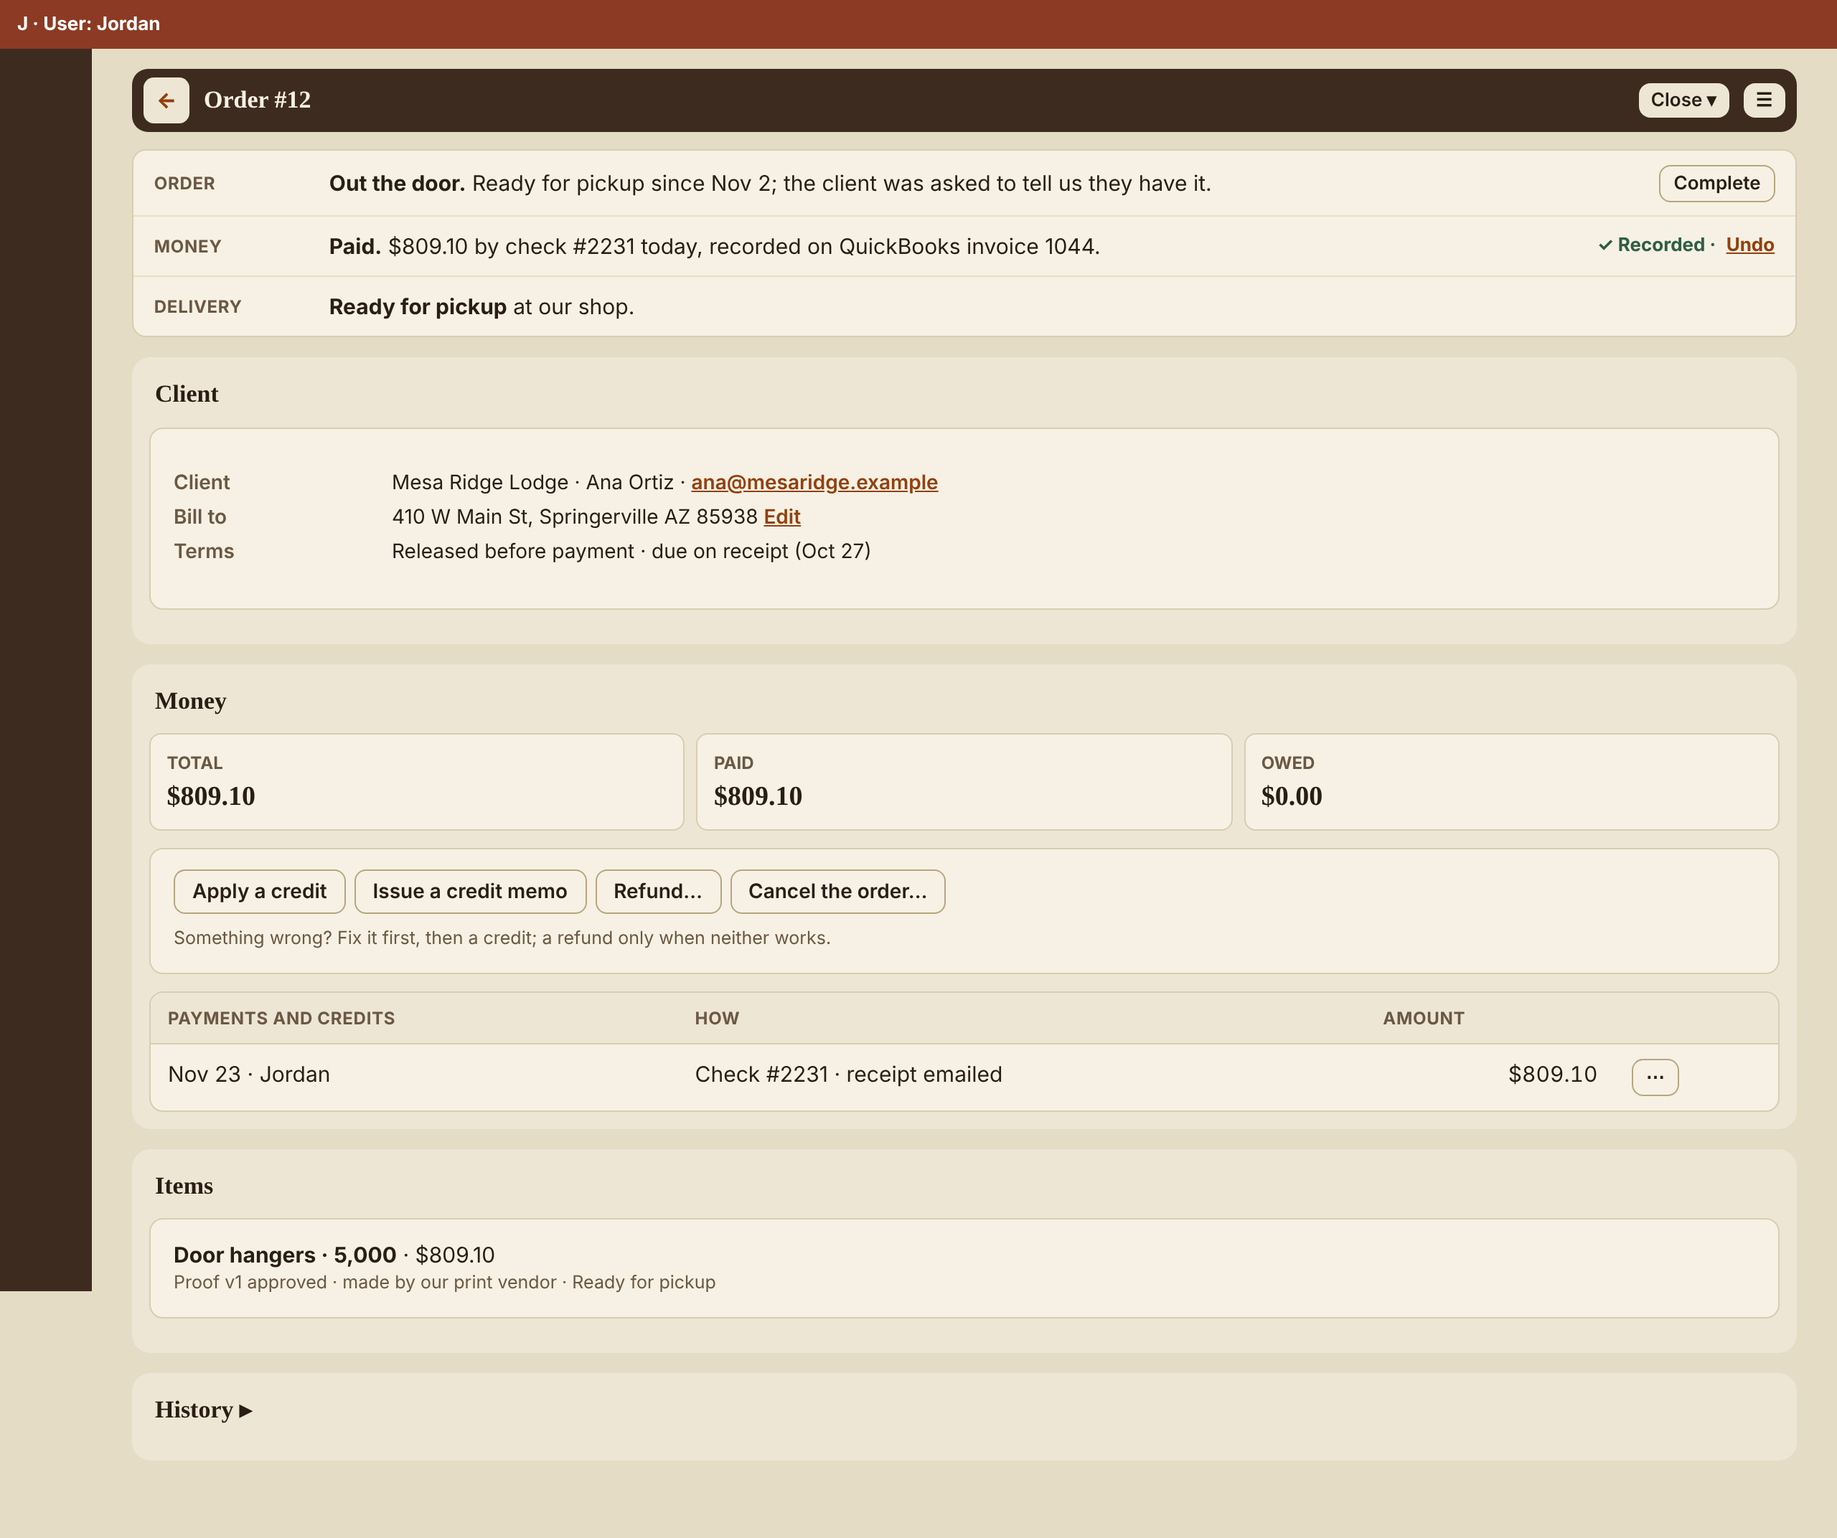
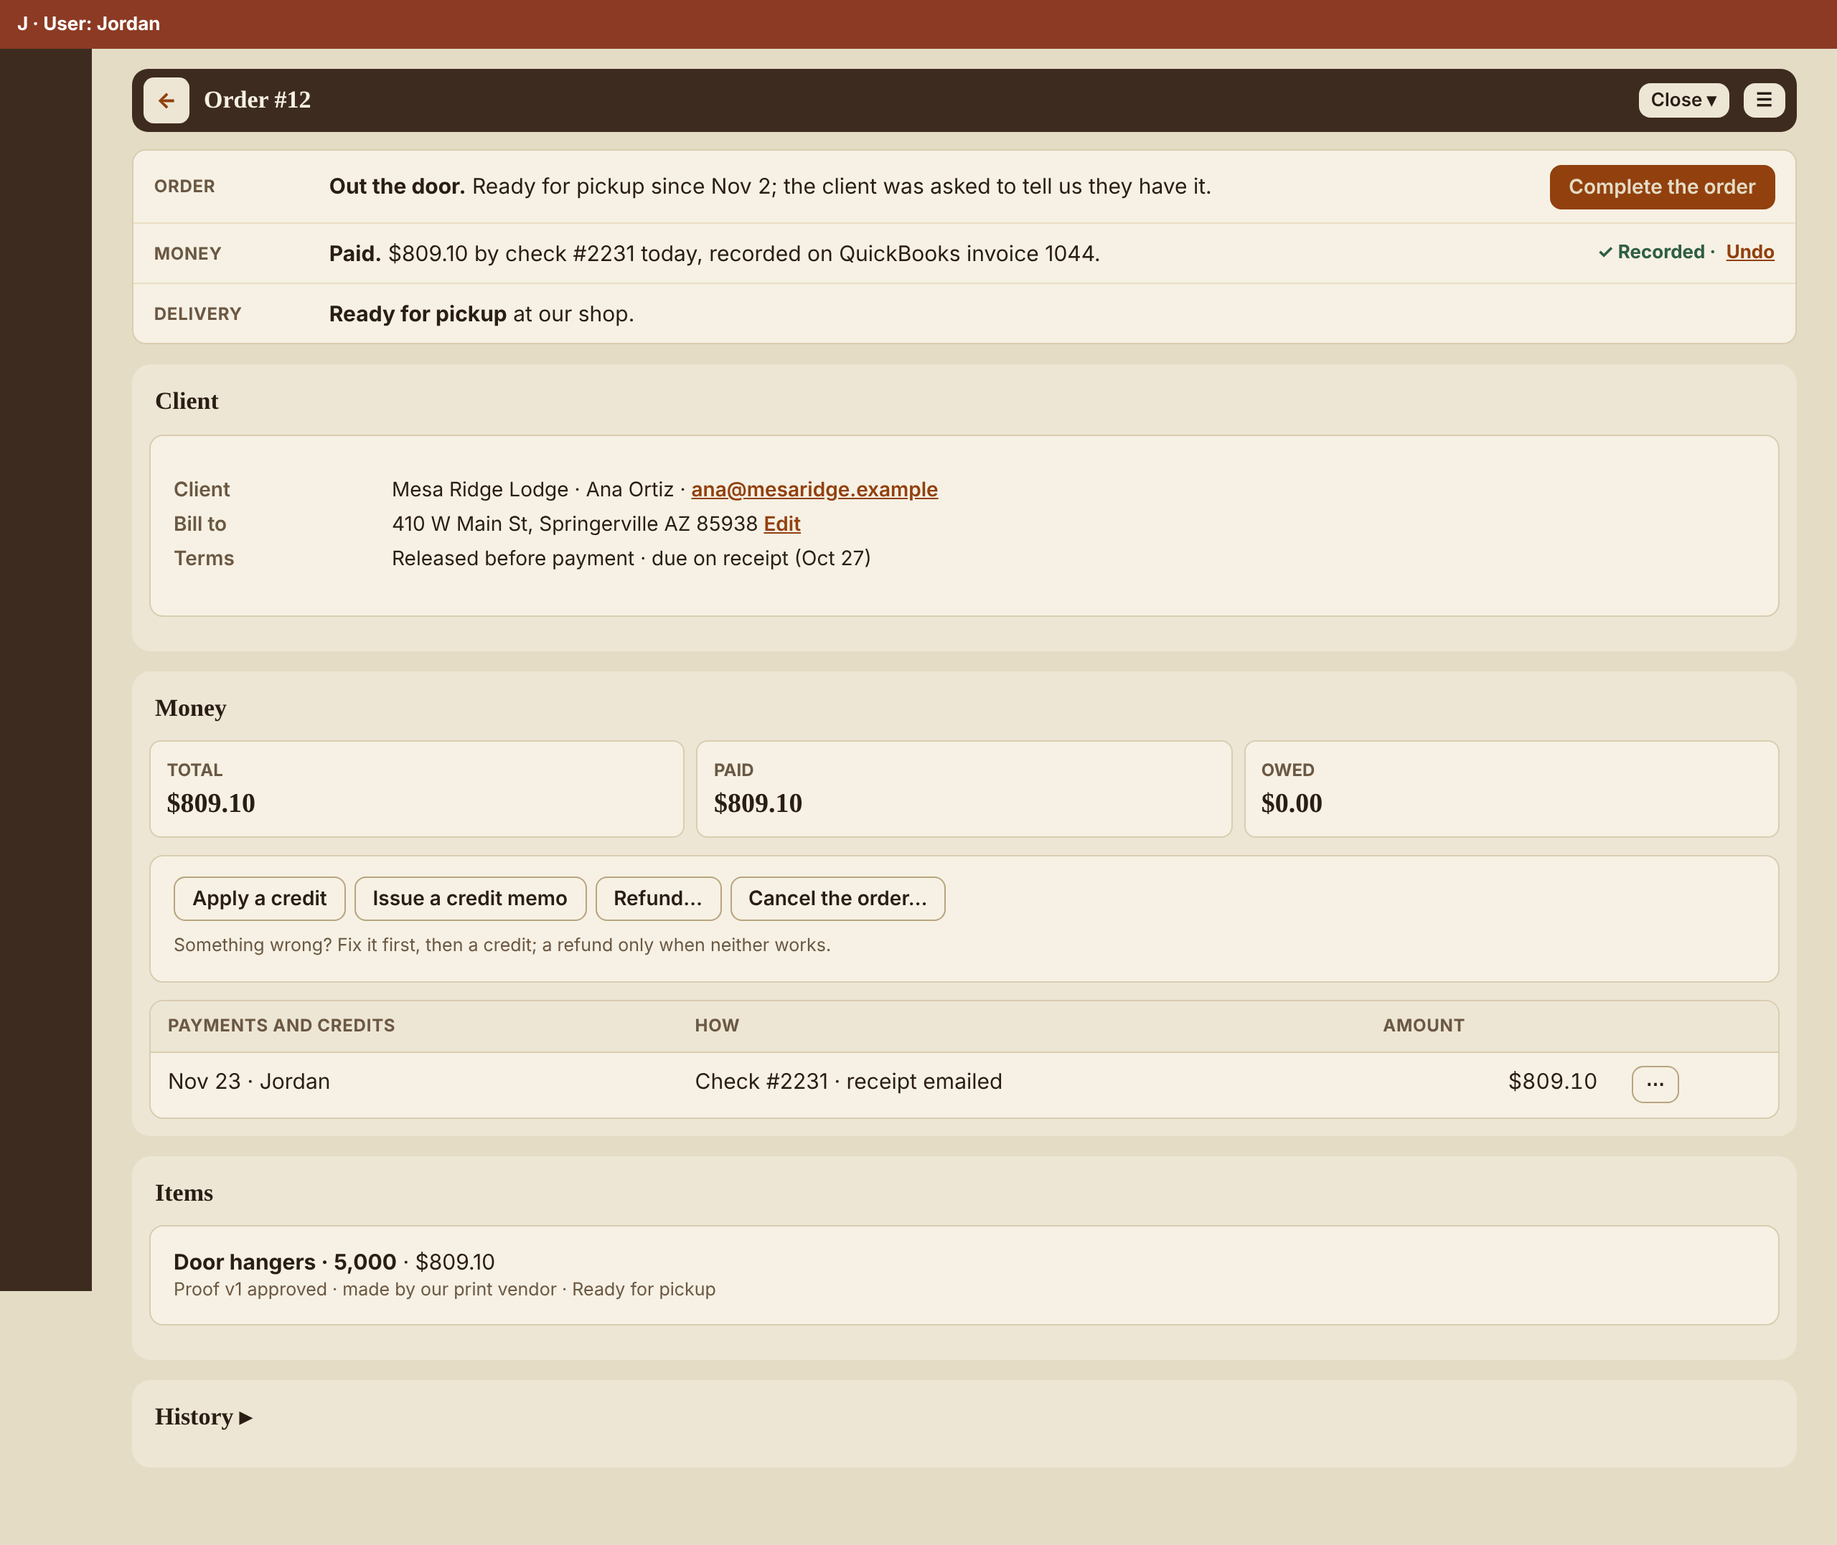
Order management design, round 3: the order as one chain routed by its choices; the Design reviewer's three fixes
Jason (CLAUDE.md #1309): single tasks end at their confirmation; an order is chained tasks routed by choices.
§3.5 draws the chain. Mockups: order-after's one filled button is Complete the order; board-after shows the next
link after a payment, where a row moved, and tiles and count that follow; catalog's filter words true, Check its cost,
⋯ on phones.

Claude-Session: https://claude.ai/code/session_01CXLi5kEUy5gPJ4PG34SZhy

diff --git a/design/order-management/mockups.html b/design/order-management/mockups.html
@@ -80,11 +80,12 @@ label{display:block;font-size:13px;font-weight:600;color:var(--meta);margin:.5re
   .rail{display:none}.main{margin-left:0;padding:8px 3px 30px}.head{padding:0 8px}.bar{padding:0 3px}
   .tilerow{grid-template-columns:1fr 1fr;gap:3px}.tile.money{grid-column:span 2;margin:6px 0 0}
   table.big{display:none}.mcard{display:block;background:var(--card);border:1px solid var(--edge);border-radius:.5rem;padding:10px 12px;margin-bottom:3px}
-  .mcard .t{display:flex;justify-content:space-between;align-items:baseline;gap:8px}.mcard .g{display:grid;grid-template-columns:1fr 1fr;gap:6px;margin:8px 0;font-size:13.5px}
+  .mcard .t{display:flex;justify-content:space-between;align-items:baseline;gap:8px}.mcard .t .pill{margin-left:auto}.mcard .g{display:grid;grid-template-columns:1fr 1fr;gap:6px;margin:8px 0;font-size:13.5px}
   .steps{grid-template-columns:1fr}.sum{position:static}.figs{gap:3px}.aging{grid-template-columns:1fr 1fr;gap:3px}
   .line{grid-template-columns:1fr;gap:4px}.line .why{text-align:left}.kv{grid-template-columns:1fr}.kv dt{margin-top:6px}
   .sec{padding:8px 3px;border-radius:.5rem}.card,.step,.news{border-radius:.5rem}.strip{border-radius:0;margin:0 -3px 8px}
   .step>header{flex-wrap:wrap}.step>header .say{flex-basis:100%;order:3}
+  .bar .search{min-width:0}.bar .b{white-space:normal}
   .drawer{width:100%;left:0;top:34px}.shade{left:0}.foot{padding:.5rem .6rem}
 }
 </style></head><body>
@@ -96,11 +97,11 @@ label{display:block;font-size:13px;font-weight:600;color:var(--meta);margin:.5re
 <section id="board" data-v="board board-after board-empty">
   <div class="head"><h1>Orders</h1><button class="b go">＋ Place an order</button></div>
   <div class="tilerow" role="group" aria-label="Show orders where…">
-    <button class="tile on" aria-pressed="true"><b>4</b><span>Needs us</span></button>
-    <button class="tile" aria-pressed="false"><b>3</b><span>Waiting on the client</span></button>
+    <button class="tile on" aria-pressed="true"><b data-only="board board-empty">4</b><b data-only="board-after">3</b><span>Needs us</span></button>
+    <button class="tile" aria-pressed="false"><b data-only="board board-empty">3</b><b data-only="board-after">4</b><span>Waiting on the client</span></button>
     <button class="tile" aria-pressed="false"><b>2</b><span>In production</span></button>
     <button class="tile" aria-pressed="false"><b>2</b><span>Out the door</span></button>
-    <button class="tile money" aria-pressed="false" title="Any order with money owed, whatever its stage"><b>$3,214.60</b><span>Money owed</span><small>5 orders, in any stage</small></button>
+    <button class="tile money" aria-pressed="false" title="Any order with money owed, whatever its stage"><b data-only="board board-empty">$3,214.60</b><b data-only="board-after">$2,802.60</b><span>Money owed</span><small data-only="board board-empty">5 orders, in any stage</small><small data-only="board-after">4 orders, in any stage</small></button>
   </div>
   <div class="bar"><div class="search">Search orders: number, client, email</div><button class="b filter"><svg class="i"><use href="#filter"/></svg> Everyone's · Open ▾</button></div>
   <div data-only="board board-after">
@@ -112,20 +113,20 @@ label{display:block;font-size:13px;font-weight:600;color:var(--meta);margin:.5re
     <tr><td><a href="#">#19</a></td><td>Pinon Hills Dental</td><td><span class="st"><i class="dot go"></i>Approved</span><small>today</small></td>
       <td data-only="board"><span class="st owed">$412.00 deposit due</span><small>cost + 15%</small></td><td data-only="board-after"><span class="st">Deposit paid</span><small>$412.00 · $1,374.00 to come</small></td>
       <td><span class="st">Not started</span></td>
-      <td data-only="board"><button class="b sm">Take a payment</button></td><td data-only="board-after"><span class="done">✓ Paid $412.00 by check · <a href="#">Undo</a></span></td></tr>
+      <td data-only="board"><button class="b sm">Take a payment</button></td><td data-only="board-after"><span class="done">✓ Paid $412.00 by check · <a href="#">Undo</a></span><br><button class="b sm" style="margin-top:6px">Send the work order</button></td></tr>
     <tr><td><a href="#">#7</a></td><td>Little Colorado Outfitters</td><td data-only="board"><span class="st"><i class="dot wait"></i>Link expired</span><small>sent Nov 4</small></td><td data-only="board-after"><span class="st"><i class="dot wait"></i>With the client</span><small>sent again today</small></td>
       <td><span class="st">Not due yet</span></td><td><span class="st">Not started</span></td>
-      <td data-only="board"><button class="b sm">Send it again</button></td><td data-only="board-after"><span class="done">✓ Sent Nov 23 · <a href="#">Copy the link</a></span></td></tr>
+      <td data-only="board"><button class="b sm">Send it again</button></td><td data-only="board-after"><span class="done">✓ Sent Nov 23 · <a href="#">Copy the link</a></span><span class="sub">Moved to Waiting on the client</span></td></tr>
   </tbody></table>
   <div class="mcard"><div class="t"><a href="#">Order #12</a><span class="pill wait">$809.10 owed</span></div>
     <div class="g"><span>Mesa Ridge Lodge</span><span>Out the door · ready since Nov 2</span><span>Released before payment</span><span>Ready for pickup</span></div><button class="b sm">Collect the balance</button></div>
   <div class="mcard"><div class="t"><a href="#">Order #21</a><span class="pill">Not due yet</span></div>
     <div class="g"><span>Canyon Feed &amp; Supply</span><span>Changes asked · 1 day</span><span>Not started</span></div><button class="b sm">Upload the new proof</button></div>
   <div class="mcard"><div class="t"><a href="#">Order #19</a><span class="pill wait" data-only="board">$412.00 deposit due</span><span class="pill" data-only="board-after">Deposit paid</span></div>
-    <div class="g"><span>Pinon Hills Dental</span><span>Approved · today</span><span>Not started</span></div><button class="b sm" data-only="board">Take a payment</button><span class="done" data-only="board-after">✓ Paid $412.00 by check · <a href="#">Undo</a></span></div>
+    <div class="g"><span>Pinon Hills Dental</span><span>Approved · today</span><span>Not started</span></div><button class="b sm" data-only="board">Take a payment</button><span data-only="board-after"><span class="done">✓ Paid $412.00 by check · <a href="#">Undo</a></span><br><button class="b sm" style="margin-top:6px">Send the work order</button></span></div>
   <div class="mcard"><div class="t"><a href="#">Order #7</a><span class="pill">Not due yet</span></div>
-    <div class="g"><span>Little Colorado Outfitters</span><span data-only="board">Link expired · sent Nov 4</span><span data-only="board-after">With the client · sent again today</span></div><button class="b sm" data-only="board">Send it again</button><span class="done" data-only="board-after">✓ Sent Nov 23 · <a href="#">Copy the link</a></span></div>
-  <div class="foot"><span>1–4 of 4 that need us</span><span>‹ 1 ›</span></div>
+    <div class="g"><span>Little Colorado Outfitters</span><span data-only="board">Link expired · sent Nov 4</span><span data-only="board-after">With the client · sent again today</span></div><button class="b sm" data-only="board">Send it again</button><span data-only="board-after"><span class="done">✓ Sent Nov 23 · <a href="#">Copy the link</a></span><span class="sub">Moved to Waiting on the client</span></span></div>
+  <div class="foot"><span data-only="board board-empty">1–4 of 4 that need us</span><span data-only="board-after">3 need us · #7 moved to Waiting on the client (shown until you refresh)</span><span>‹ 1 ›</span></div>
   </div>
   <div data-only="board-empty" class="empty"><h3 style="font-size:17px">Nothing needs you</h3><p>Every order is with the client, at the vendor, or done.</p><button class="b">＋ Place an order</button> <button class="b">Show waiting on the client (3)</button></div>
 </section>
@@ -164,7 +165,7 @@ label{display:block;font-size:13px;font-weight:600;color:var(--meta);margin:.5re
   <div class="news" role="status">
     <div class="line"><span class="k">Order</span><span><b>Out the door.</b> Ready for pickup since Nov 2; the client was asked to tell us they have it.</span>
       <span data-only="order"><button class="b sm" disabled title="$809.10 still owed: collect the balance first">Complete</button><span class="why">$809.10 still owed</span></span>
-      <span data-only="order-after"><button class="b sm">Complete</button></span></div>
+      <span data-only="order-after"><button class="b go">Complete the order</button></span></div>
     <div class="line"><span class="k">Money</span>
       <span data-only="order"><b class="owed">$809.10 owed.</b> Released before payment by an admin on Oct 27 (agreed terms). Its QuickBooks invoice 1044 was made by hand.</span>
       <span data-only="order-after"><b>Paid.</b> $809.10 by check #2231 today, recorded on QuickBooks invoice 1044.</span>
@@ -217,15 +218,15 @@ label{display:block;font-size:13px;font-weight:600;color:var(--meta);margin:.5re
 <section id="catalog" data-v="catalog">
   <div class="head"><h1>Catalog</h1><button class="b go">＋ New product</button></div>
   <nav class="tabs" aria-label="Catalog views"><a class="on" href="#">Products</a><a href="#">Services</a><a href="#">Categories</a><a href="#">Materials &amp; services (COGS)</a><a href="#">Price lists</a></nav>
-  <div class="bar"><div class="search">Search products</div><button class="b filter"><svg class="i"><use href="#filter"/></svg> All categories · Shown ▾</button></div>
+  <div class="bar"><div class="search">Search products</div><button class="b filter"><svg class="i"><use href="#filter"/></svg> All categories · Shown, hidden ▾</button></div>
   <table class="big"><thead><tr><th>Product</th><th>Category</th><th>From</th><th>Cost checked</th><th>Shown</th><th></th></tr></thead><tbody>
     <tr><td><a href="#">Door hangers</a><span class="sub">4.25 × 11 · 3 stocks · 5 run sizes</span></td><td>Print · Mailers &amp; hangers</td><td>$189.00</td><td>Yes · Nov 12</td><td>Shown</td><td><button class="b sm" aria-label="More for Door hangers">⋯</button></td></tr>
     <tr><td><a href="#">Business cards</a><span class="sub">3.5 × 2 · 4 stocks · 6 run sizes</span></td><td>Print · Cards</td><td>$42.00</td><td>Yes · Nov 3</td><td>Shown</td><td><button class="b sm" aria-label="More for Business cards">⋯</button></td></tr>
-    <tr><td><a href="#">Vinyl banner</a><span class="sub">by the square foot</span></td><td>Signs</td><td>$6.50 / sq ft</td><td><span class="owed">Not checked</span></td><td>Hidden</td><td><button class="b sm" aria-label="More for Vinyl banner">⋯</button></td></tr>
+    <tr><td><a href="#">Vinyl banner</a><span class="sub">by the square foot</span></td><td>Signs</td><td>$6.50 / sq ft</td><td><span class="owed">Not checked</span><br><button class="b sm" style="margin-top:4px">Check its cost</button></td><td>Hidden</td><td><button class="b sm" aria-label="More for Vinyl banner">⋯</button></td></tr>
   </tbody></table>
-  <div class="mcard"><div class="t"><a href="#">Door hangers</a><span class="pill">Shown</span></div><div class="g"><span>Print · Mailers &amp; hangers</span><span>From $189.00</span><span>Cost checked Nov 12</span></div></div>
-  <div class="mcard"><div class="t"><a href="#">Business cards</a><span class="pill">Shown</span></div><div class="g"><span>Print · Cards</span><span>From $42.00</span><span>Cost checked Nov 3</span></div></div>
-  <div class="mcard"><div class="t"><a href="#">Vinyl banner</a><span class="pill">Hidden</span></div><div class="g"><span>Signs</span><span>$6.50 / sq ft</span><span class="owed">Cost not checked</span></div></div>
+  <div class="mcard"><div class="t"><a href="#">Door hangers</a><span class="pill">Shown</span><button class="b sm" aria-label="More for Door hangers">⋯</button></div><div class="g"><span>Print · Mailers &amp; hangers</span><span>From $189.00</span><span>Cost checked Nov 12</span></div></div>
+  <div class="mcard"><div class="t"><a href="#">Business cards</a><span class="pill">Shown</span><button class="b sm" aria-label="More for Business cards">⋯</button></div><div class="g"><span>Print · Cards</span><span>From $42.00</span><span>Cost checked Nov 3</span></div></div>
+  <div class="mcard"><div class="t"><a href="#">Vinyl banner</a><span class="pill">Hidden</span><button class="b sm" aria-label="More for Vinyl banner">⋯</button></div><div class="g"><span>Signs</span><span>$6.50 / sq ft</span><span class="owed">Cost not checked</span></div><button class="b sm">Check its cost</button></div>
   <div class="foot"><span>1–3 of 3 products</span><span>‹ 1 ›</span></div>
   <p class="sub" style="margin-top:10px">Services (design, setup, installation) are their own tab with ＋ New service; Categories lists each with its products and ＋ New category. A category groups the Shop and Place an order's catalog search.</p>
 </section>

diff --git a/research/order-management-design-2026-11-23.md b/research/order-management-design-2026-11-23.md
@@ -152,6 +152,41 @@ QuickBooks' reference after).
 Board columns: **Order** (state + age), **Money** (state + amount), **Delivery** (state), **Next step** (one button).
 The order page's notice: three short lines in the same words, in the strip's notices box; nothing repeated below.
 
+### 3.5 Single tasks and the order's chain
+
+Jason, 2026-11-23 (CLAUDE.md #1309): "Placing an order will have multiple chained tasks and variations of choice
+routing compared to single view/act/confirm step."
+
+- **A single task** ends at its confirmation, with Undo, and nothing follows from it: record a payment, send a
+  reminder, issue a credit, apply a credit, refund (confirmed before, QuickBooks' reference after; no Undo, money
+  sent can't be unsent).
+- **An order is a process**: single tasks chained by the order workflow, each link see → do → confirm, and the next
+  link **routed by the choices already made**. The row's Next step is always the chain's next link; a single task done
+  inside it (a payment) confirms in place, then the chain shows its next link beside it ("✓ Paid $412.00 by check ·
+  Undo", then **Send the work order**).
+
+**The order's chain** (each line is one link; ⟶ shows where a choice routes it):
+
+```
+Place an order:  Client ─ Items ─ Where and tax ─ Payment terms ─ Review and send
+                                  │                │
+                                  ├ pickup ⟶ no address; tax at our shop
+                                  ├ shipped, one address ⟶ one invoice
+                                  ├ shipped, several ⟶ one invoice per destination (0177 §1, release B)
+                                  └ nothing to send ⟶ no delivery links later
+                                                   ├ paid in full ⟶ payment due at approval
+                                                   ├ deposit (cost + 15%) ⟶ deposit at approval, balance before delivery
+                                                   └ credit terms (§5 Q4) ⟶ due by the terms' date
+The client:      Open ─ Approve proofs (⟶ Changes asked: Upload the new proof ⟶ back to the client) ─ Approve the order
+Money:           Take the payment (full) | Take the deposit (deposit) | — (terms)   ⟶ an admin's Release before payment skips it, with a reason
+Production:      Confirm it's ready to make ─ Send the work order ─ Vendor accepts ─ Made
+Delivery:        Ready for pickup ─ Confirm pickup  |  Shipped ─ Confirm delivery  |  — (nothing to send)
+Close:           Collect the balance (if owed) ─ Complete (greyed while owed; an admin's override with a reason)
+```
+
+Each link is the board's one Next step while it's current; the order page's three lines show the current link of the
+Order, Money and Delivery parts of the chain.
+
 ## 4. Pages and drill-down
 
 ```
@@ -183,7 +218,8 @@ Back-Office
 ### 4.2 Place an order (guided)
 
 One record page that fills in from the top; a finished step folds to one line with **Change** (Jason's rule, 2026-11-23:
-a finished step replaces its form):
+a finished step replaces its form) and the steps that follow are **routed by the choices made** (§3.5): pickup asks for no address; several
+destinations open one invoice each; a deposit shows how it's figured; credit terms show the due date:
 
 1. **Client**: find a client (listing, member, email) or add one; their billing address from their record.
 2. **Items**: search the catalog; **New product or service** in place (the existing `new_product`), with a category.
